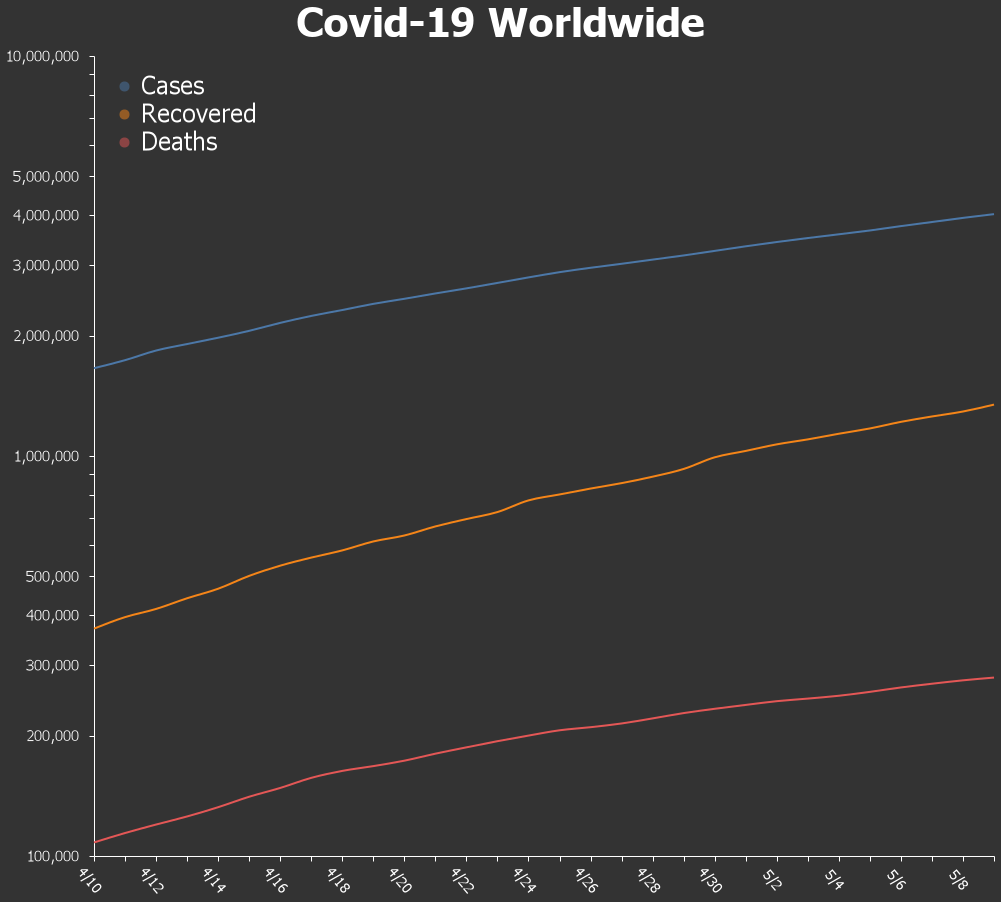
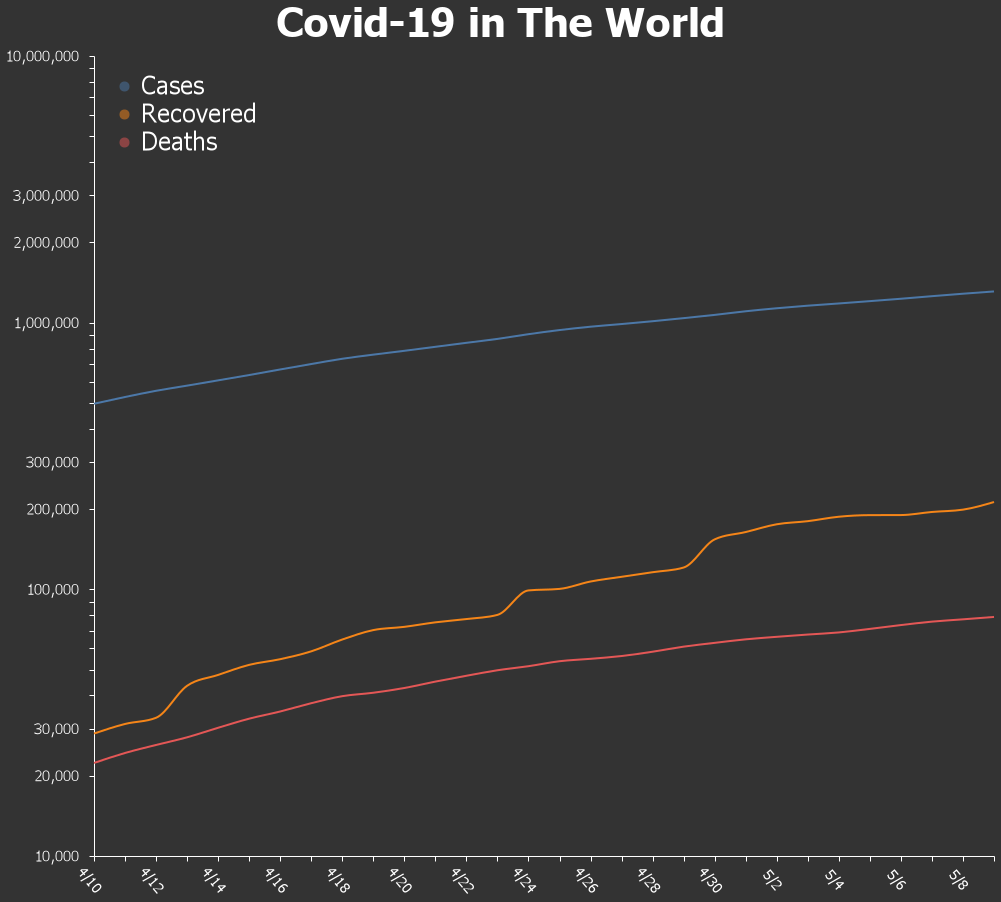
Covid 19 functions have more functionality

diff --git a/covidRequests/getWorldData.js b/covidRequests/getWorldData.js
@@ -6,20 +6,28 @@ function numberWithCommas(x) {
     return x.toString().replace(/\B(?=(\d{3})+(?!\d))/g, ",");
 }
 module.exports = {
-    getGraph: (msg, country) => {
-    fetch("https://corona.lmao.ninja/v2/all")
+    getGraph: (msg, country, isWorld) => {
+        country = country.substring(0,1).toUpperCase() + country.substring(1);
+        var urlHistorical;
+        var urlStats;
+        var title = "The World";
+
+        if(isWorld){
+            urlHistorical = "https://corona.lmao.ninja/v2/historical/all";
+            urlStats = "https://corona.lmao.ninja/v2/all";
+        }else{
+            urlHistorical = "https://corona.lmao.ninja/v2/historical/"+country;
+            urlStats = "https://corona.lmao.ninja/v2/countries/"+country;
+        }
+        fetch(urlStats)
         .then(data => data.json())
         .then(total => {
-            fetch("https://corona.lmao.ninja/v2/historical/" + country)
+            fetch(urlHistorical)
                 .then(data => data.json())
                 .then(a => {
-                    var title = "Worldwide";
-
                     if (a.timeline != undefined) { 
                         a = a.timeline; 
-                        title = `In ${country}`; 
                     }
-                    console.log(a);
                     var data = [];
                     for (let i in a.cases) {
                         let date = i.substring(0, i.length - 3);
@@ -43,7 +51,7 @@ module.exports = {
                             }
                         ],
                         "title": {
-                            "text": "Covid-19 " + title,
+                            "text": "Covid-19 in " + title,
                             "fontSize": 40,
                             "subtitleColor": "#fff"
                         },
@@ -145,27 +153,27 @@ module.exports = {
                         .renderer('none')
                         .initialize();
                     view
-                        .toCanvas()
-                        .then(function (canvas) {
-                            console.log('Writing PNG to file...')
-                            fs.writeFile('lineGraph.png', canvas.toBuffer(), () => "YUUHH");
-                            const covidEmbed = new Discord.MessageEmbed()
-                                .setTitle(":world_map: Covid-19 Daily Updates in the World :world_map:")
-                                .attachFiles(['./lineGraph.png'])
-                                .setColor(8388624)
-                                .setDescription("Covid 19 statistics for the world")
-                                .addField("World Infections", "Total Infected: **" + numberWithCommas(total.cases) +
-                                    `** (**${numberWithCommas(total.todayCases)}** increase)`)
-                                .addField("World Deaths", "Total Deaths: **" + numberWithCommas(total.deaths) + `** (**${numberWithCommas(total.todayDeaths)}** increase)`)
-                                .setImage('attachment://lineGraph.png');
-                            msg.channel.send(covidEmbed);
+                    .toCanvas()
+                    .then(function (canvas) {
+                        console.log('Writing PNG to file...')
+                        fs.writeFile('lineGraph.png', canvas.toBuffer(), () => "YUUHH");
+                        const covidEmbed = new Discord.MessageEmbed()
+                            .setTitle(`:world_map: Covid-19 Daily Updates in ${country} :world_map:`)
+                            .attachFiles(['./lineGraph.png'])
+                            .setColor(8388624)
+                            .setDescription(`Covid 19 statistics for ${country}`)
+                            .addField(`${country} Infections`, "Total Infected: **" + numberWithCommas(total.cases) +
+                                `** (**${numberWithCommas(total.todayCases)}** increase)`)
+                            .addField(`${country} Deaths`, "Total Deaths: **" + numberWithCommas(total.deaths) + `** (**${numberWithCommas(total.todayDeaths)}** increase)`)
+                            .setImage('attachment://lineGraph.png');
+                        msg.channel.send(covidEmbed);
 
-                        })
-                        .catch(function (err) {
-                            console.log("Error writing PNG to file:")
-                            console.error(err)
-                            return "error";
-                        });
+                    })
+                    .catch(function (err) {
+                        console.log("Error writing PNG to file:")
+                        console.error(err)
+                        return "error";
+                    });
 
                 });
 

diff --git a/commands/covid.js b/commands/covid.js
@@ -46,8 +46,10 @@ module.exports = {
                 timestamp: new Date(),
             }
             msg.channel.send({ embed:covidNJEmbed });
-            getWorldData.getGraph(msg, "all");
-        });
-
+            getWorldData.getGraph(msg, "all", true);
+        })
+        .catch(d => {
+            getWorldData.getGraph(msg, state, false);
+        })
     },
 };
